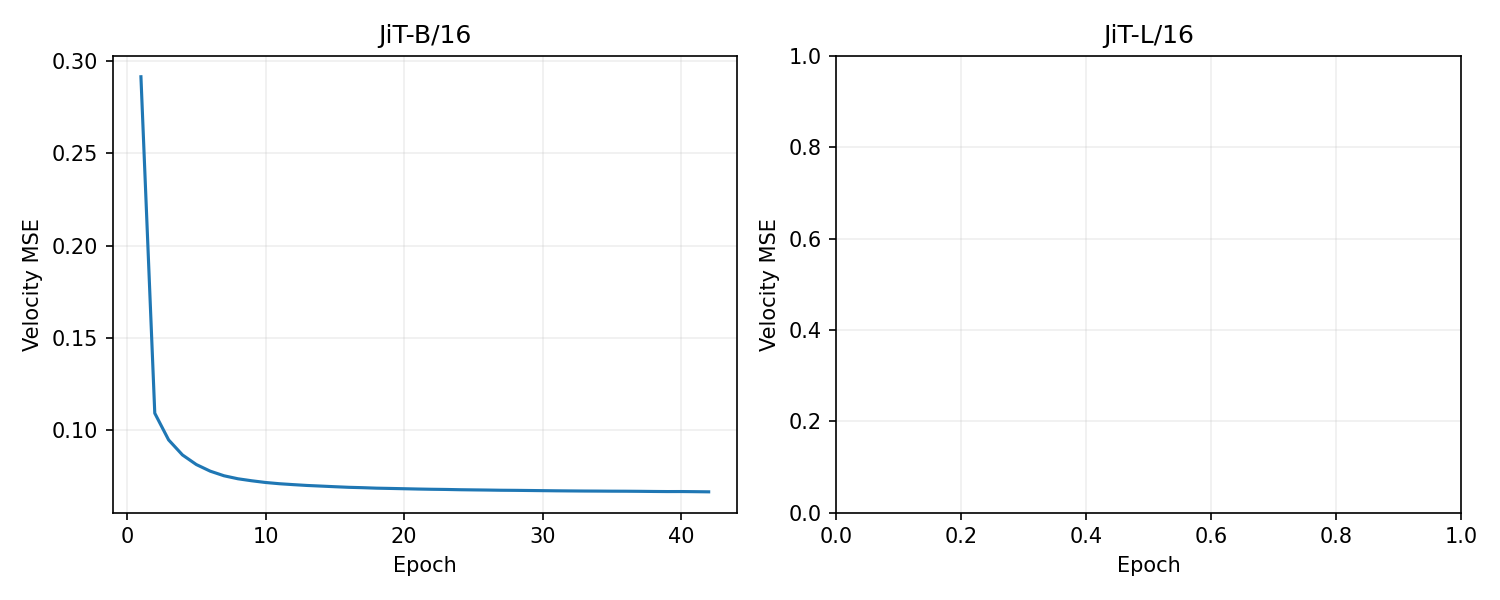
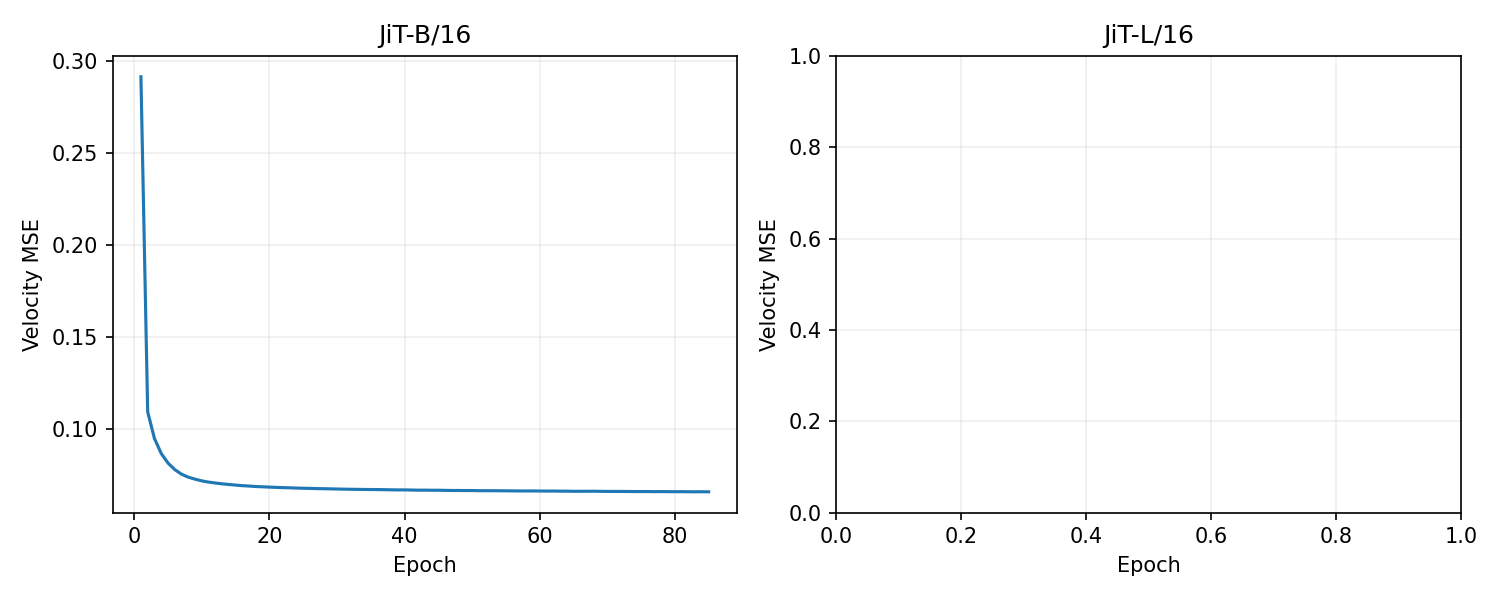
Report JiT B16 epoch 85 progress and epoch 80 FID monitoring

diff --git a/reports/REPORT.md b/reports/REPORT.md
@@ -1,18 +1,18 @@
 # JiT 官方配置复现实验报告
 
-更新时间：2026-09-26T18:15:47.030795+00:00
+更新时间：2026-09-27T03:31:26.314104+00:00
 
 ## 当前进度
 
 **已完成训练与最终评估：0/2。** 当前展示独立的 4 卡实验。训练轮数取自逐轮日志；检查点每 5 轮保存，异常退出后从检查点恢复：
 
-- JiT-B/16：训练日志已完成 42/200 epochs；可恢复检查点为第 40 轮。
+- JiT-B/16：训练日志已完成 85/200 epochs；可恢复检查点为第 85 轮。
 
 - JiT-L/16：训练日志已完成 0/200 epochs；可恢复检查点为第 0 轮。
 
-JiT-B/16 最近 5 个 epoch 平均 14.6 分钟；剩余训练约 38.3 小时，不含评估、重试和排队。
+JiT-B/16 最近 5 个 epoch 平均 12.4 分钟；剩余训练约 23.7 小时，不含评估、重试和排队。
 
-JiT-B/16 第 40 epoch 中途评估：FID-8000=25.1137，CFG=2.9，EMA=0.9996。这是中途 8K 指标，不能作为最终 FID-50K 结果。
+JiT-B/16 第 80 epoch 中途评估：FID-8000=12.8535，CFG=2.9，EMA=0.9996。这是中途 8K 指标，不能作为最终 FID-50K 结果。
 
 8 卡实验仍使用独立目录 `runs/b16_200ep`、`runs/l16_200ep`；其结果不会与本页的 4 卡实验合并。
 
@@ -40,7 +40,7 @@ Slurm 队列：
 101980 jit_b16_l16_4gpu RUNNING alphagpu07
 ```
 
-流水线记录：2026-09-26：作业 101980 已在 alphagpu07 的 4 张 H100 上恢复训练，并完整跑过此前失败的第 41 轮以及下一轮。实时已完成轮数见本报告的训练日志进度；每 5 轮保存的检查点单独列出。effective batch=1024、LR=2e-4、B/16 CFG=2.9。L/16 将在 B/16 完成后开始。
+流水线记录：2026-09-26 23:30 EDT：4 卡 B/16 作业 101980 在 alphagpu07 已连续续跑近 10 小时，完成 85 轮并进入第 86 轮，85-epoch 检查点已保存，未再出现先前的数据加载错误。第 80 轮 FID-8K=12.8535（CFG 2.9、EMA 0.9996）。L/16 尚未开始。8 卡作业 99841 仍排队。当前段时限到 9 月 27 日 01:38:42 EDT，之后由依赖作业续跑，排队间隔尚不确定。
 
 ## 预注册设置
 

diff --git a/reports/recovery_20260926.md b/reports/recovery_20260926.md
@@ -15,3 +15,7 @@ Dependent job 101980 is queued and will resume from the 40-epoch checkpoint, sta
 ## Resume observed at 13:44 EDT
 
 Job 101980 started at 13:38:42 EDT on alphagpu07 with four H100s. Its log confirms checkpoint restoration at 13:39:25 (40 completed epochs and 50,040 optimizer updates), followed by epoch 41 steps 121 and 321. GPU training has resumed with the loader change; extended stability and the next completed epoch are still being monitored.
+
+## Continued training observed at 23:30 EDT
+
+Job 101980 has continued for almost ten hours after resuming. It has completed and checkpointed epoch 85 and is processing epoch 86, without another observed DataLoader failure. Epoch 80 FID-8K is 12.8535 at CFG 2.9 and EMA 0.9996, versus 25.1137 at epoch 40. The latest five complete epochs averaged 742.95 seconds (12.4 minutes); about 24 hours of pure B/16 training remain, plus evaluation and future queue intervals.
